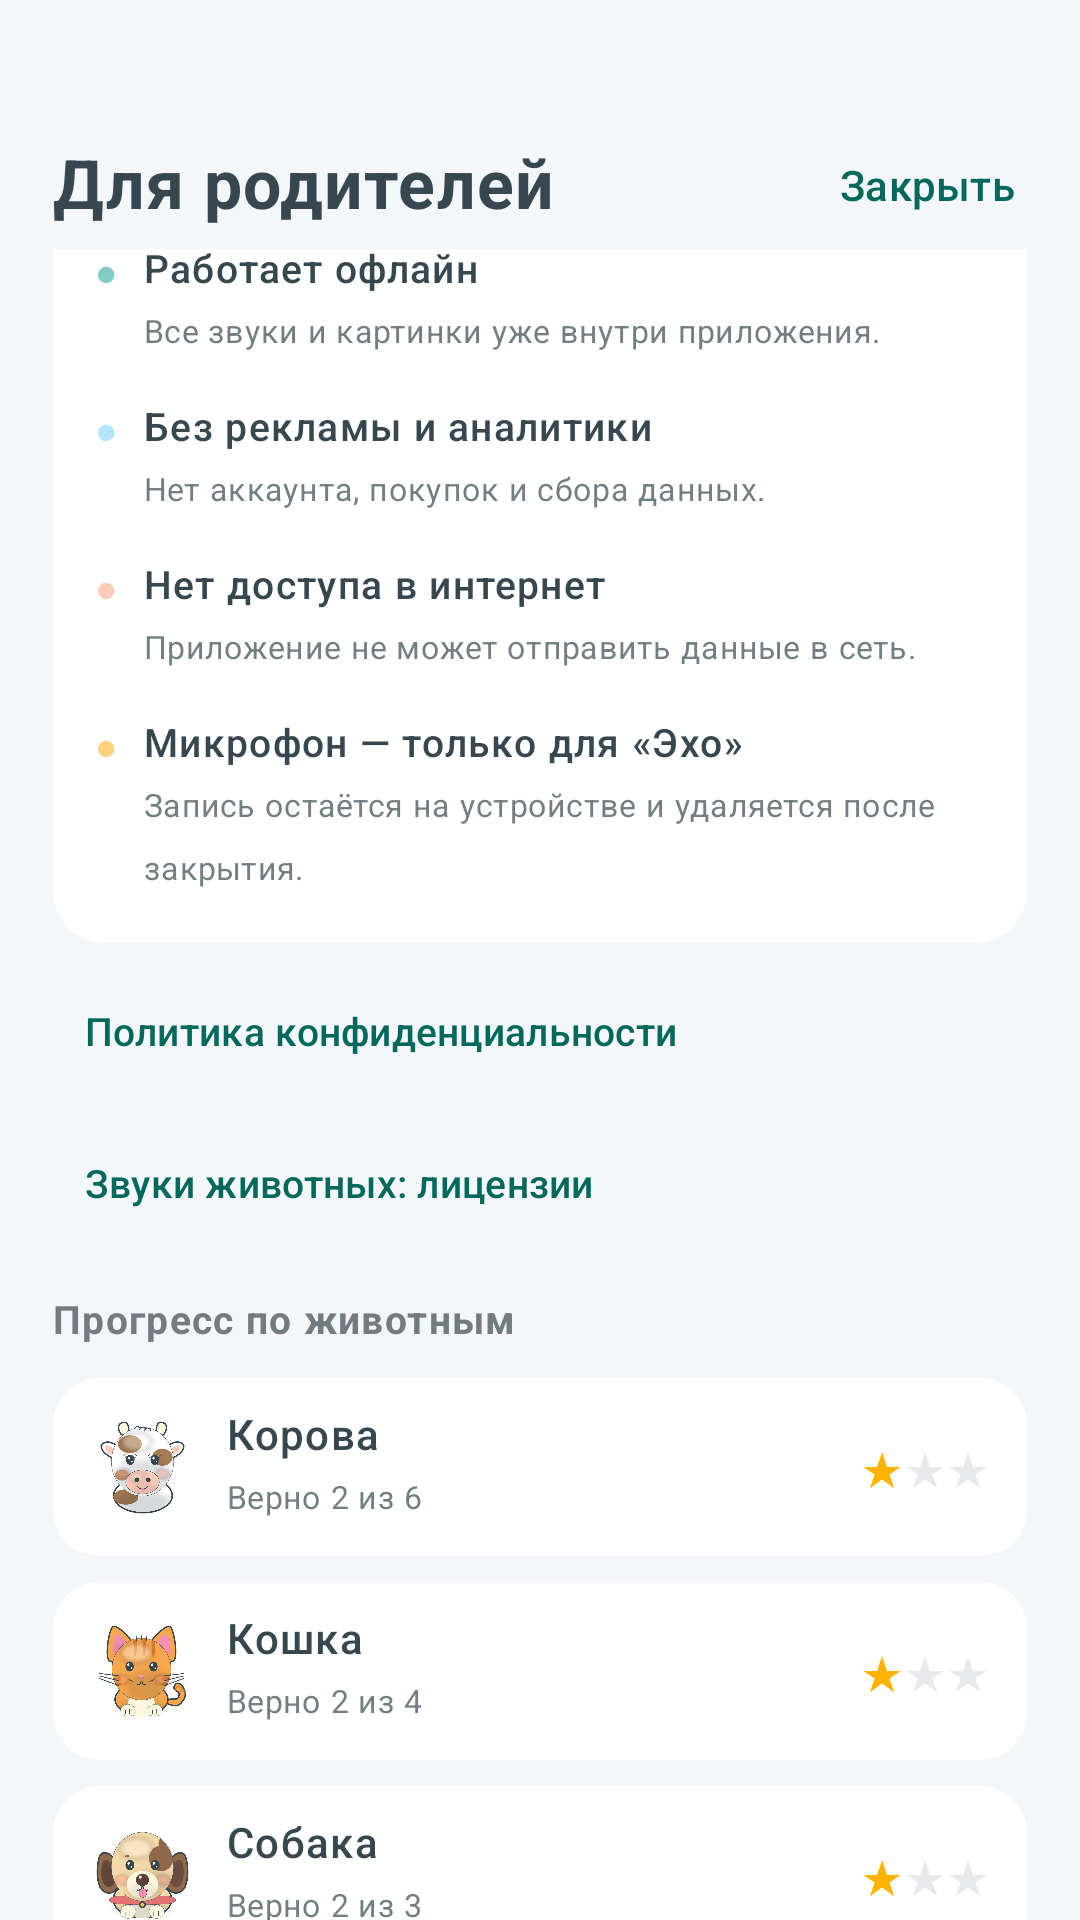
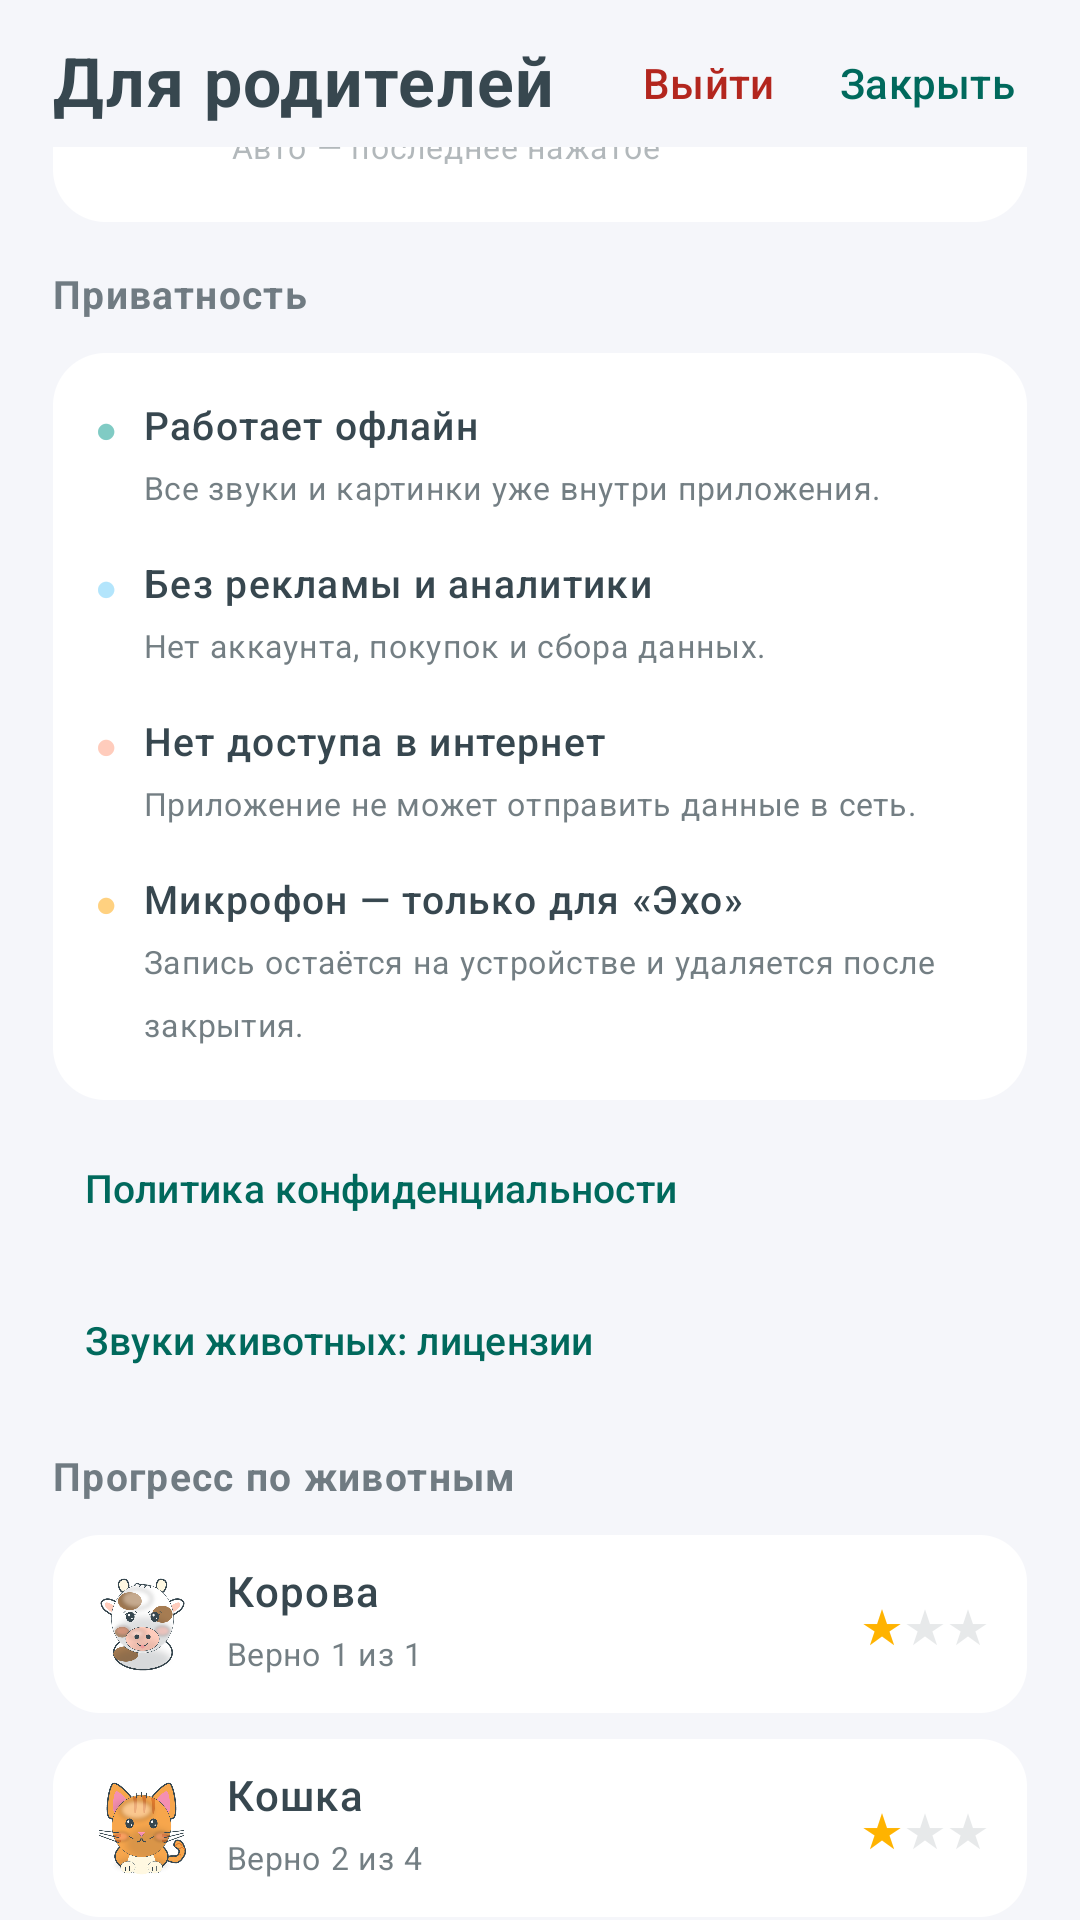
Refresh RuStore screenshots from a live emulator run
The AVD never had a system image, so the store screenshots still showed the old animal art and no exit button. Installed system-images;android-35;google_apis;x86_64, clicked through the exit dialog, the parent gate and Back on every screen, and re-shot all six screens at 1080x1920. README documents how to reproduce the run.

diff --git a/README.md b/README.md
@@ -97,7 +97,8 @@ receiver'ов — оно не показывается пользователю 
   панели «Для родителей» → «Приватность».
 - [x] **Проверка сборки.** `testDebugUnitTest`, `lintDebug`, `assembleRelease`
   и `bundleRelease` проходят; звуки, диалог лицензий и ссылка на политику
-  проверены на эмуляторе Android 15.
+  проверены на эмуляторе Android 15. Там же прокликаны выход с песочницы,
+  родительский гейт и Back на каждом экране (см. «Проверка на эмуляторе»).
 
 - [x] **Публикация политики.** Репозиторий `teaka-23/whoSaysWhat` создан,
   GitHub Pages включён (Source: GitHub Actions), workflow выполнен успешно.
@@ -158,6 +159,34 @@ tools/generate_store_assets.py   # иконка и баннер RuStore
 ./gradlew testDebugUnitTest
 # отчёт: app/build/reports/tests/testDebugUnitTest/index.html
 ```
+
+## Проверка на эмуляторе
+
+Ручные сценарии и скриншоты для стора снимаются на AVD `whosayswhat`
+(Android 15, `google_apis`, x86_64). Если system image ещё не установлен:
+
+```bash
+SDK=~/Library/Android/sdk
+$SDK/cmdline-tools/latest/bin/sdkmanager "system-images;android-35;google_apis;x86_64"
+$SDK/cmdline-tools/latest/bin/avdmanager create avd -n whosayswhat \
+  -k "system-images;android-35;google_apis;x86_64"      # один раз, если AVD нет
+$SDK/emulator/emulator -avd whosayswhat -no-window -no-audio -gpu swiftshader_indirect &
+./gradlew installDebug   # или adb install -r app/build/outputs/apk/debug/app-debug.apk
+```
+
+В этом AVD выставлен `wm size 1080x1920` при плотности 420 — ровно как у
+скриншотов 16:9, поэтому координаты тапов в сценариях ниже пересчитывать не
+нужно. `-no-audio` годится для скриншотов и проверки UI: запись в «Эхо»
+работает, но звук в headless-режиме не услышать.
+
+Что прокликано вживую:
+
+- три нажатия по замку → панель «Для родителей»; короткий Back панель не
+  открывает;
+- «Выйти» на песочнице → диалог «Выйти из игры?»; «Остаться» возвращает в
+  игру, «Выйти» вызывает `finishAndRemoveTask()` (задача исчезает из недавних);
+- Back: диалог «Эхо» закрывается, награда и игра возвращаются на песочницу,
+  на песочнице не делает ничего (activity не закрывается).
 
 ## Материалы для RuStore
 
